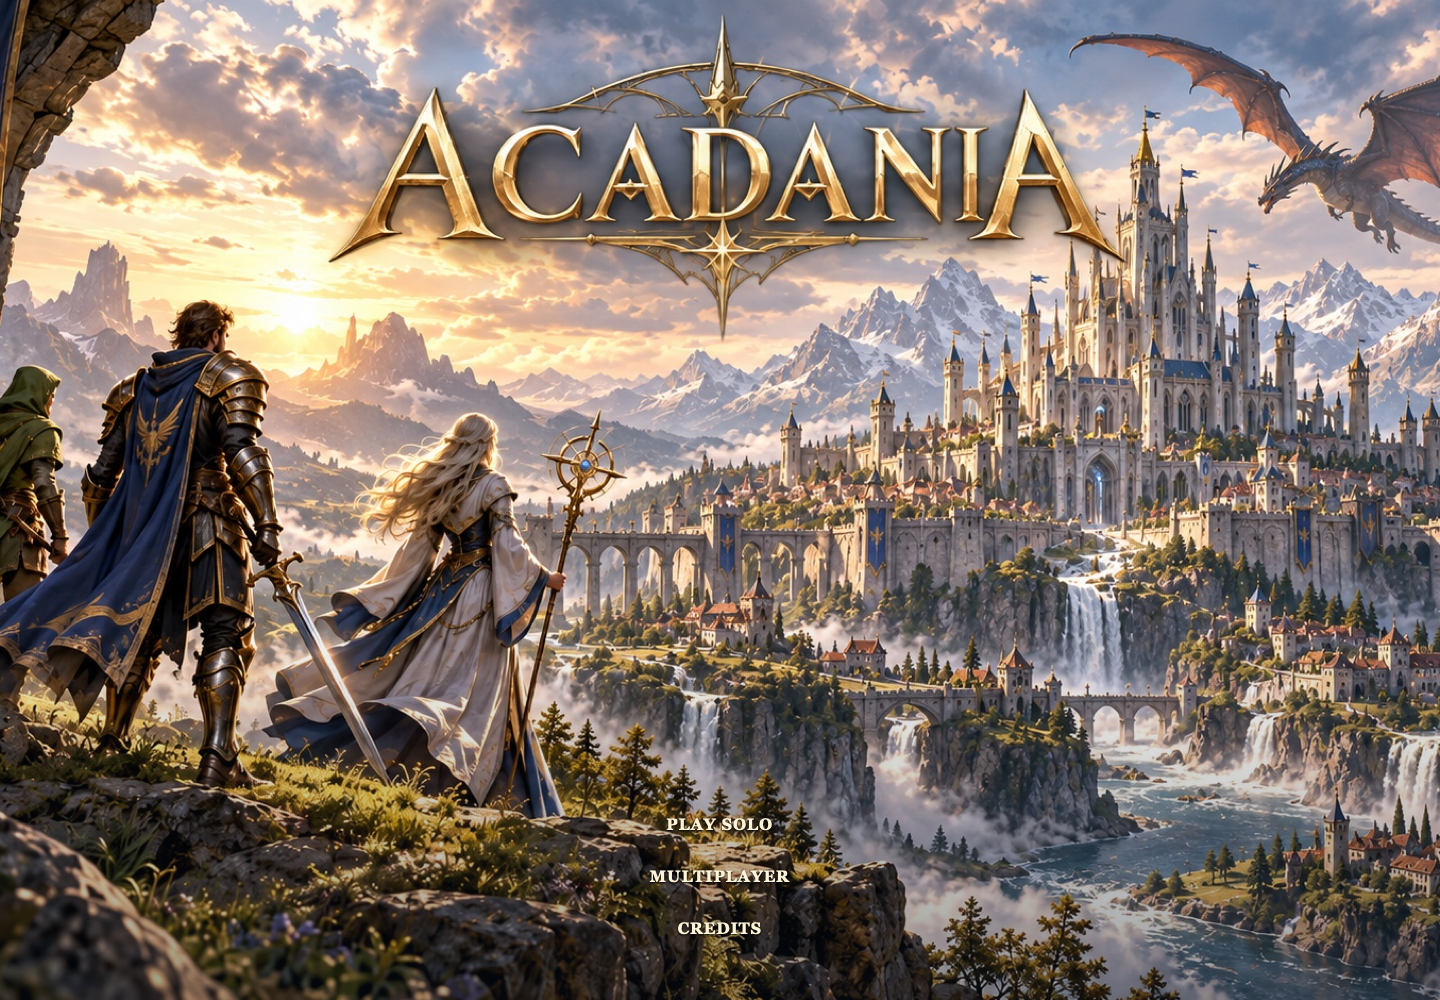
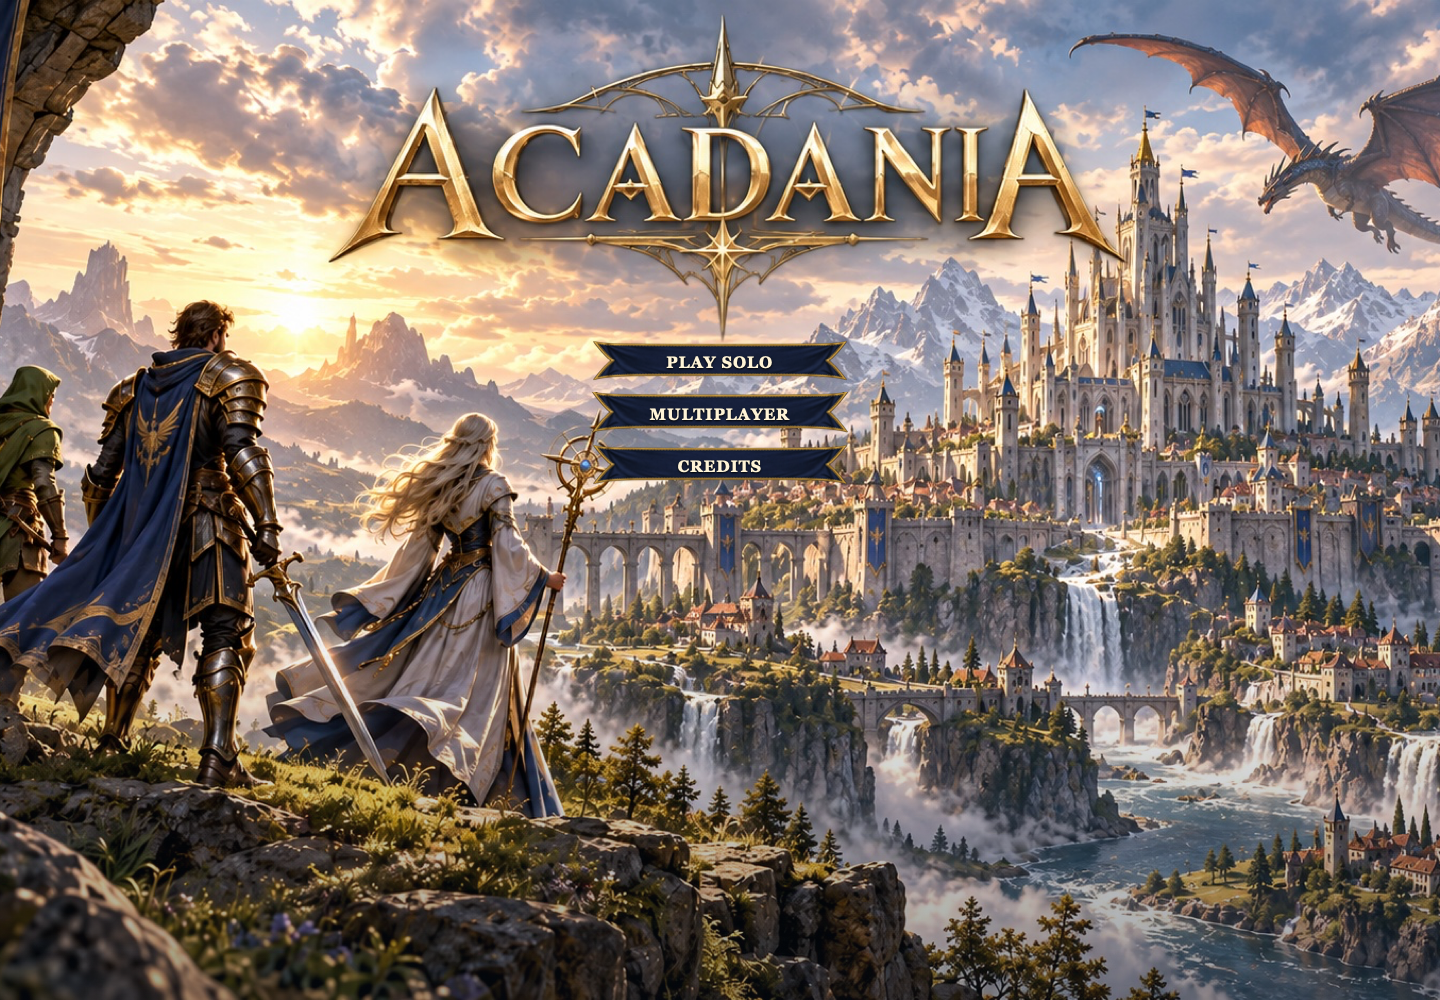
Position main menu buttons below the painted Acadania title

Changed region(s): [[0.4062, 0.341, 0.5938, 0.496], [0.4375, 0.868, 0.5625, 0.961], [0.4688, 0.806, 0.5312, 0.837]]

diff --git a/styles.css b/styles.css
@@ -148,7 +148,8 @@ body.watch-mode #panel { width: min(320px, 28vw); }
    for assistive technology without covering the painted lettering. */
 #acadaniaTitle { position:absolute; width:1px; height:1px; padding:0; margin:-1px; overflow:hidden; clip-path:inset(50%); white-space:nowrap; }
 #mainMenuShade { background:linear-gradient(180deg,transparent 60%,#07101b66); pointer-events:none; }
-#mainMenuContent { position:absolute; bottom:clamp(24px,5vh,64px); padding-top:0; }
+/* Track the title in the cover-scaled 1672 × 941 menu painting. */
+#mainMenuContent { position:absolute; top:min(max(34vh, 19.14vw), calc(100vh - 180px)); bottom:auto; padding-top:0; }
 
 #menuPlayBtn,
 #menuOnlineBtn,

diff --git a/index.html b/index.html
@@ -5,7 +5,7 @@
   <title>Acadania — Turn-Based Strategy</title>
   <meta name="description" content="Play Acadania, a fantasy strategy game with campaigns, local two-player battles, and a map editor.">
   <meta name="viewport" content="width=device-width,initial-scale=1">
-  <link rel="stylesheet" href="styles.css?v=acadania-portal-release-20261022">
+  <link rel="stylesheet" href="styles.css?v=acadania-menu-position-20261022">
   <script src="js/boot/startup-assets.js?v=acadania-portal-release-20261022"></script>
   <script src="vendor/p5.min.js"></script>
 </head>
